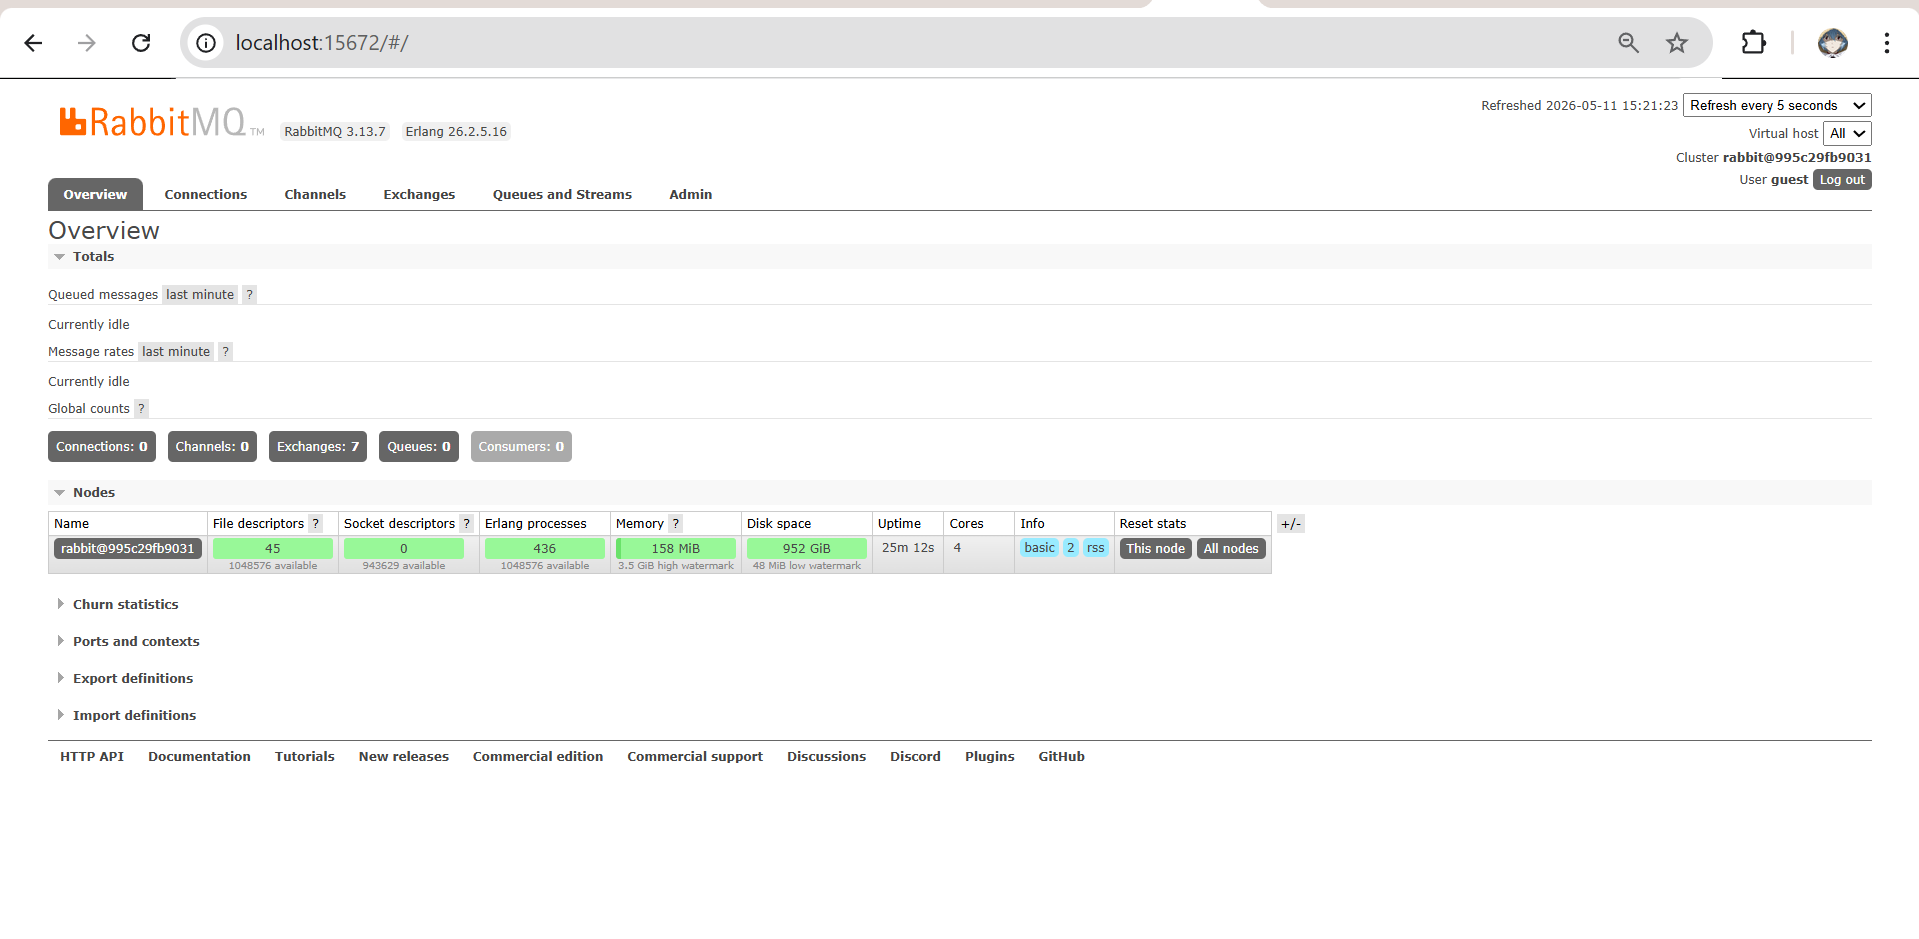
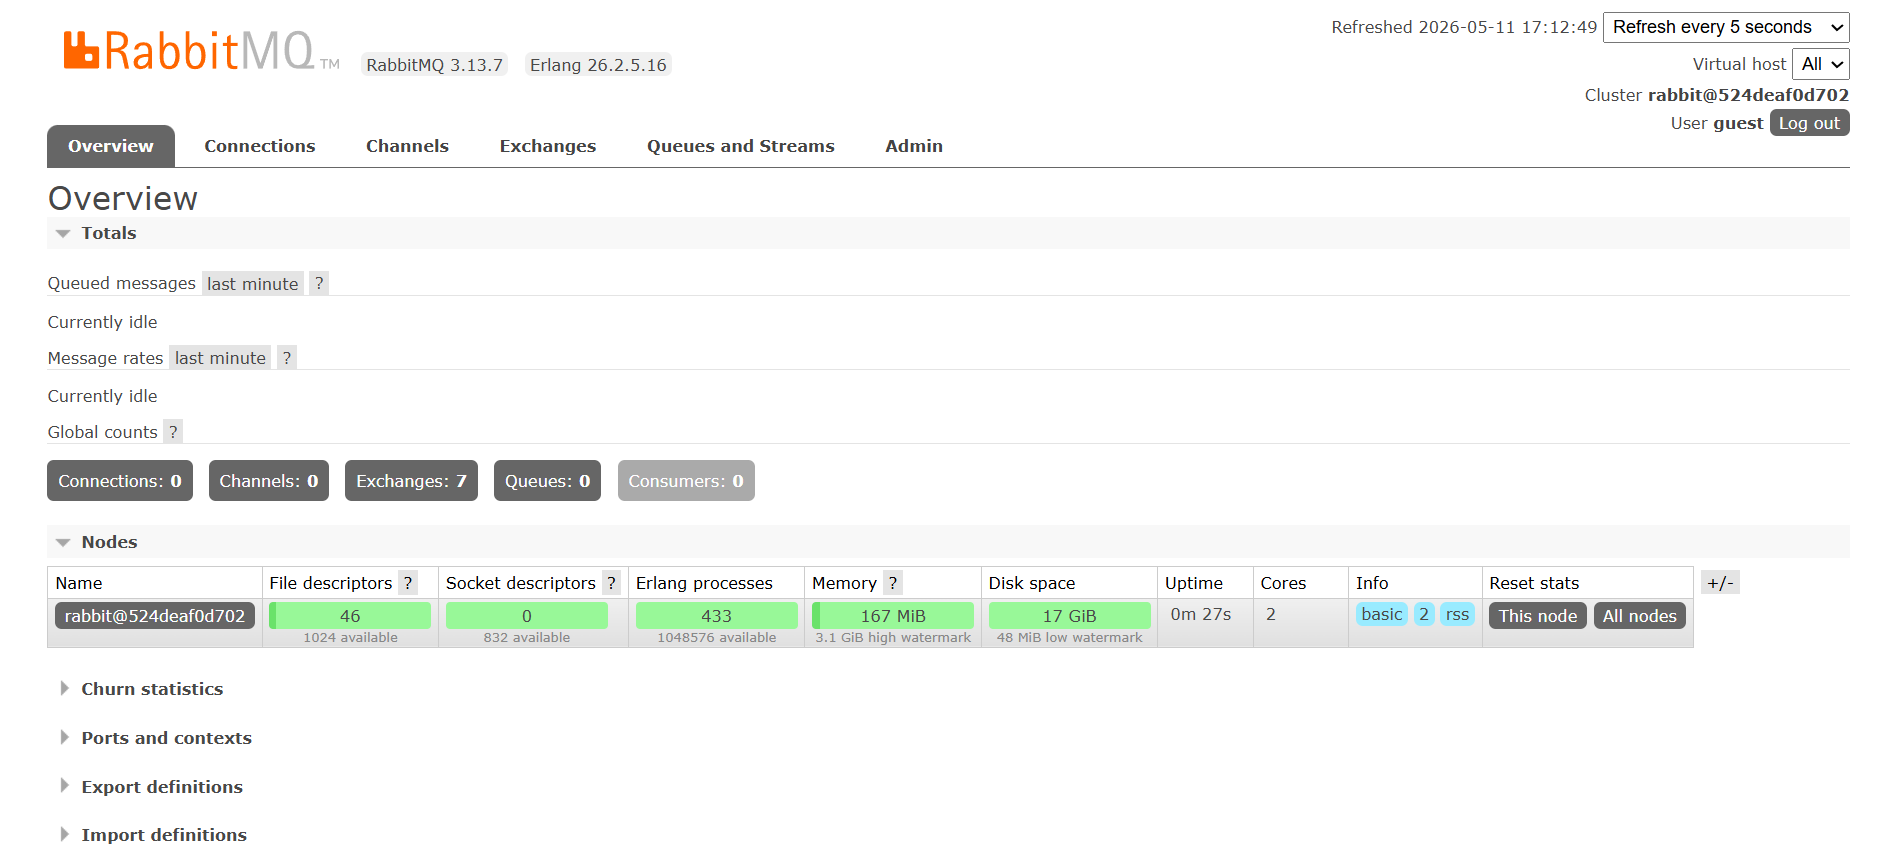
Monitoring chart based on publisher

diff --git a/README.md b/README.md
@@ -27,8 +27,7 @@ subscriber.
 ### Sending and Processing Event
 
 ![Publisher](assets/images/publisher.png)
-![RabbitMQ](assets/images/subscriber.png)
-
+![Subscriber](assets/images/subscriber.png)
 
 When the publisher runs with `cargo run`, it immediately sends 5 event messages to the RabbitMQ
 message broker. Each message contains a `UserCreatedEventMessage` with a unique `user_id` and
@@ -39,3 +38,16 @@ queue, the subscriber picks them up one by one and processes each message by pri
 the console. This demonstrates the core concept of event-driven architecture, where the
 publisher and subscriber are fully decoupled and only interact through the message broker as
 the middleman.
+
+### Monitoring Chart Based on Publisher
+
+![RabbitMQ_Spike](assets/images/rabbitmq_spike.png)
+
+The second chart in the RabbitMQ Overview page shows the message rates over the last minute.
+Every time the publisher is run with `cargo run`, it sends 5 messages to the broker at once,
+which causes a visible spike on the "Message rates" chart. The spike represents the sudden burst
+of publish activity hitting the broker in a very short time. After the publisher finishes sending all
+5 messages and exits, the rate immediately drops back to 0.0/s, which explains why the spikes
+are sharp and narrow. The more times the publisher is run, the more spikes appear on the chart.
+This clearly shows the direct correlation between running the publisher and the activity seen on
+the RabbitMQ monitoring dashboard.
